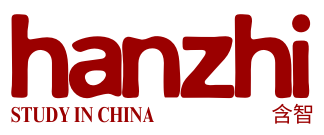
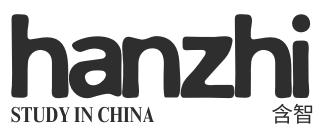
content + design: rename to Resources, blog images, white sections
- Rename "AI Resources" to "Resources" across heading, nav, footer
  and page metadata; URL path stays /ai-resources
- Drop the about-me intro paragraph
- Desaturate hanzhi logo to black & white
- Extend the guide renderer with an optional images field; embed
  official Anthropic product screenshots (Cowork, Code, Design)
  on the claude-full-setup post
- Work with me: flip the endorsements and content-i-make sections
  from cream to white to break up the beige monotony

diff --git a/lib/guide-content.ts b/lib/guide-content.ts
@@ -1,4 +1,14 @@
-type Section = { heading?: string; paragraphs: string[] };
+type GuideImage = {
+  src: string;
+  alt: string;
+  caption?: string;
+};
+
+type Section = {
+  heading?: string;
+  paragraphs: string[];
+  images?: GuideImage[];
+};
 
 export const GUIDE_BODIES: Record<string, Section[]> = {
   "claude-full-setup": [
@@ -27,6 +37,13 @@ export const GUIDE_BODIES: Record<string, Section[]> = {
         "Cara aku pake di Haru: 500 email per minggu yang dulu makan 2 jam sekarang cuma 5 menit karena Cowork yang sortirin, flag yang urgent, dan draft reply template buat yang standar.",
         "Tips buat pemula: mulai dari task kecil dulu, kayak minta dia sortir satu folder atau summarize isi beberapa file. Jangan langsung kasih akses ke semua sistem kamu sebelum kamu ngerti cara kerjanya.",
       ],
+      images: [
+        {
+          src: "/blog/claude-setup/cowork.jpg",
+          alt: "Claude Cowork desktop interface",
+          caption: "Claude Cowork — the desktop agent. Source: anthropic.com",
+        },
+      ],
     },
     {
       heading: "3. Claude Code",
@@ -37,6 +54,13 @@ export const GUIDE_BODIES: Record<string, Section[]> = {
         "Buat yang ngoding: refactor kode lama yang messy; debug error yang udah bikin pusing berjam-jam; nulis unit test otomatis.",
         "Tips buat pemula: kalau kamu non-coder, cukup deskripsiin apa yang mau kamu automasi dalam bahasa biasa. Contohnya 'bikin script Excel yang highlight semua cell di kolom Revenue yang nilainya di bawah 5 juta jadi merah.' Dia yang handle sisanya.",
       ],
+      images: [
+        {
+          src: "/blog/claude-setup/code.jpg",
+          alt: "Claude Code running in a terminal",
+          caption: "Claude Code — agentic coding from the terminal. Source: anthropic.com",
+        },
+      ],
     },
     {
       heading: "4. Claude Design",
@@ -46,6 +70,13 @@ export const GUIDE_BODIES: Record<string, Section[]> = {
         "Buat apa aja: pitch deck untuk presentasi atau fundraising; mockup tampilan app atau website; template visual buat konten atau dokumen; wireframe produk yang mau kamu develop.",
         "Cara aku pake: pitch deck yang dulu butuh 8 jam kerja plus bayar designer external sekarang jadi 20 menit dan aku kerjain sendiri karena aku tinggal deskripsiin tone, warna, dan struktur slide-nya.",
         "Tips buat pemula: makin detail deskripsi kamu, makin bagus hasilnya. Sebutin warna, tone (minimalist, bold, corporate, dll), jumlah slide atau halaman, dan tujuan dokumennya. Jangan cuma 'bikin pitch deck' tapi 'bikin pitch deck 5 slide buat B2B SaaS startup, minimalist, warna navy dan cream, target audience investor Series A.'",
+      ],
+      images: [
+        {
+          src: "/blog/claude-setup/design.jpg",
+          alt: "Claude Design interface",
+          caption: "Claude Design — prompt-to-mockup. Source: anthropic.com",
+        },
       ],
     },
     {

diff --git a/app/ai-resources/[slug]/page.tsx b/app/ai-resources/[slug]/page.tsx
@@ -83,6 +83,26 @@ export default async function GuidePage({
                     </p>
                   ))}
                 </div>
+                {section.images && section.images.length > 0 && (
+                  <div className="mt-8 space-y-6">
+                    {section.images.map((img, k) => (
+                      <figure key={k} className="overflow-hidden">
+                        {/* eslint-disable-next-line @next/next/no-img-element */}
+                        <img
+                          src={img.src}
+                          alt={img.alt}
+                          loading="lazy"
+                          className="w-full h-auto rounded-lg border border-line bg-cream"
+                        />
+                        {img.caption && (
+                          <figcaption className="mt-3 font-serif italic text-sm text-black-coffee/60 text-center">
+                            {img.caption}
+                          </figcaption>
+                        )}
+                      </figure>
+                    ))}
+                  </div>
+                )}
               </div>
             ))}
           </div>

diff --git a/app/ai-resources/page.tsx b/app/ai-resources/page.tsx
@@ -3,7 +3,7 @@ import { GuideCard } from "@/components/GuideCard";
 import { BackToHome } from "@/components/BackToHome";
 
 export const metadata = {
-  title: "AI Resources, Holly Natasha",
+  title: "Resources, Holly Natasha",
   description:
     "Free guides, prompts, and workflows for building with AI. By Holly Natasha.",
 };
@@ -20,8 +20,7 @@ export default function AiResourcesPage() {
               resources
             </p>
             <h1 className="mt-6 font-display uppercase tracking-[-0.04em] text-black-coffee leading-[0.88] text-[4.5rem] sm:text-[8rem] lg:text-[10rem]">
-              <span className="block">AI</span>
-              <span className="block">RESOURCES</span>
+              RESOURCES
             </h1>
             <p className="mt-8 max-w-xl mx-auto font-serif italic text-base sm:text-lg text-black-coffee/70">
               Free guides, prompts, and workflows from the videos.

diff --git a/lib/content.ts b/lib/content.ts
@@ -49,8 +49,6 @@ export const ABOUT_ME = {
       highlight: true,
     },
   ] as const,
-  intro:
-    "Hi! I'm Holly, an Indonesian Mechanical Engineering student at Tsinghua University. I build small AI products, make short-form video about campus life and self-development, and write about both. I'm drawn to projects that sit at the seam between engineering rigor and editorial taste.",
   highlights: [
     {
       tag: "01",
@@ -337,7 +335,7 @@ export const FOOTER = {
     },
   ],
   links: [
-    { label: "AI resources", href: "/ai-resources" },
+    { label: "Resources", href: "/ai-resources" },
     { label: "Work with me", href: "/work-with-me" },
   ],
   bottomLine: "© 2026 Holly Natasha. Built in Beijing.",

diff --git a/app/work-with-me/page.tsx b/app/work-with-me/page.tsx
@@ -86,7 +86,7 @@ export default function WorkWithMePage() {
 
       <section
         id="endorsements"
-        className="scroll-mt-12 bg-cream px-6 py-14 sm:py-20"
+        className="scroll-mt-12 bg-white px-6 py-14 sm:py-20"
       >
         <div className="mx-auto max-w-5xl">
           <WorkedWith brands={[...BRAND_KIT.workedWith]} />
@@ -233,7 +233,7 @@ export default function WorkWithMePage() {
         </div>
       </section>
 
-      <section className="bg-cream px-6 py-20 sm:py-28">
+      <section className="bg-white px-6 py-20 sm:py-28">
         <div className="mx-auto max-w-5xl">
           <p className="text-[11px] font-semibold uppercase tracking-[0.35em] text-jacarta">
             content i make

diff --git a/components/AboutNotepad.tsx b/components/AboutNotepad.tsx
@@ -52,10 +52,6 @@ export function AboutNotepad() {
               })}
             </ul>
 
-            <p className="mt-8 max-w-2xl font-sans text-base sm:text-lg leading-[1.8] text-black-coffee/90">
-              {ABOUT_ME.intro}
-            </p>
-
             <div className="mt-12 grid gap-x-12 gap-y-10 sm:grid-cols-2">
               {(() => {
                 const left = ABOUT_ME.highlights.slice(0, 1);

diff --git a/components/Hero.tsx b/components/Hero.tsx
@@ -203,7 +203,7 @@ export function Hero() {
           <span className="inline-block transition-transform group-hover:-translate-x-1">
             ←
           </span>
-          AI resources
+          Resources
         </Link>
         <span aria-hidden className="text-jacarta/30 text-sm">
           |
